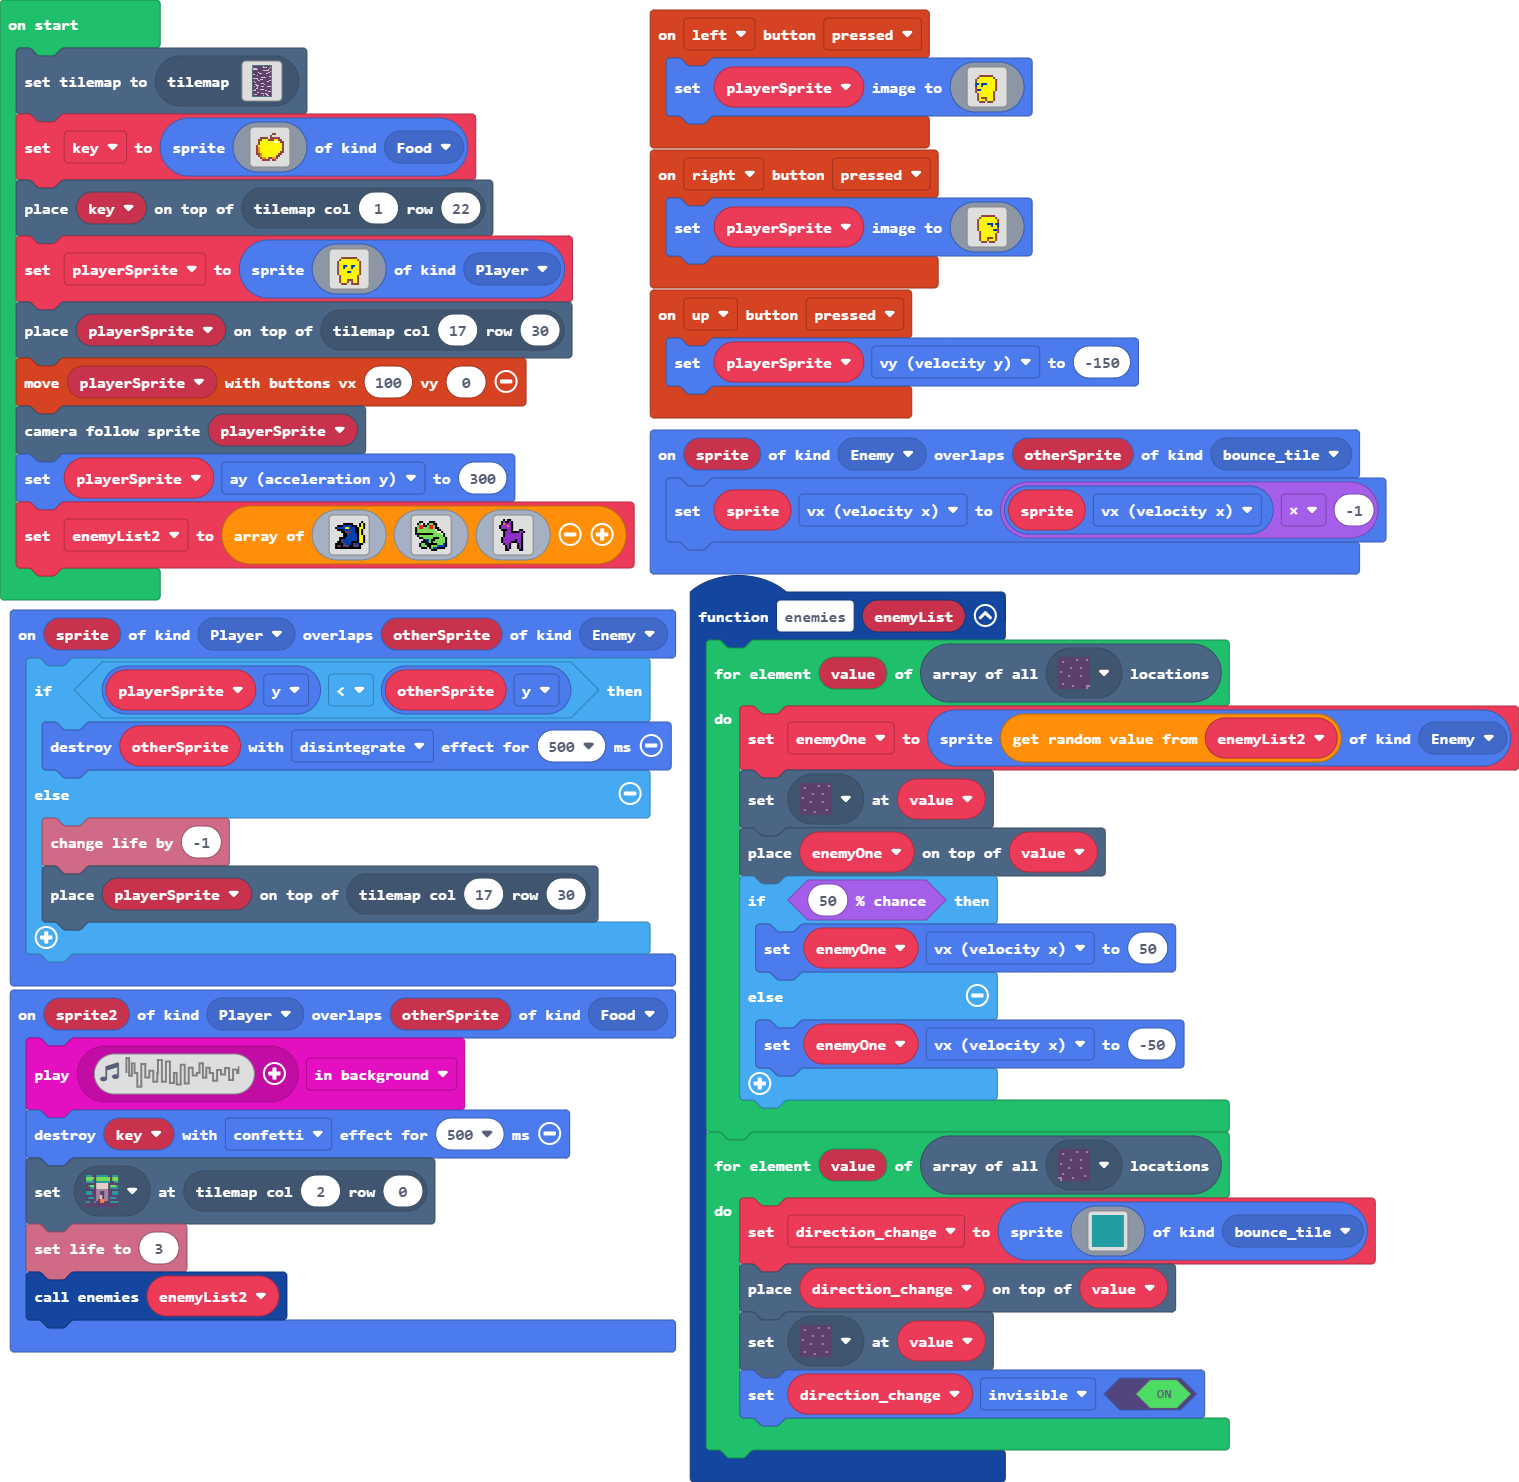
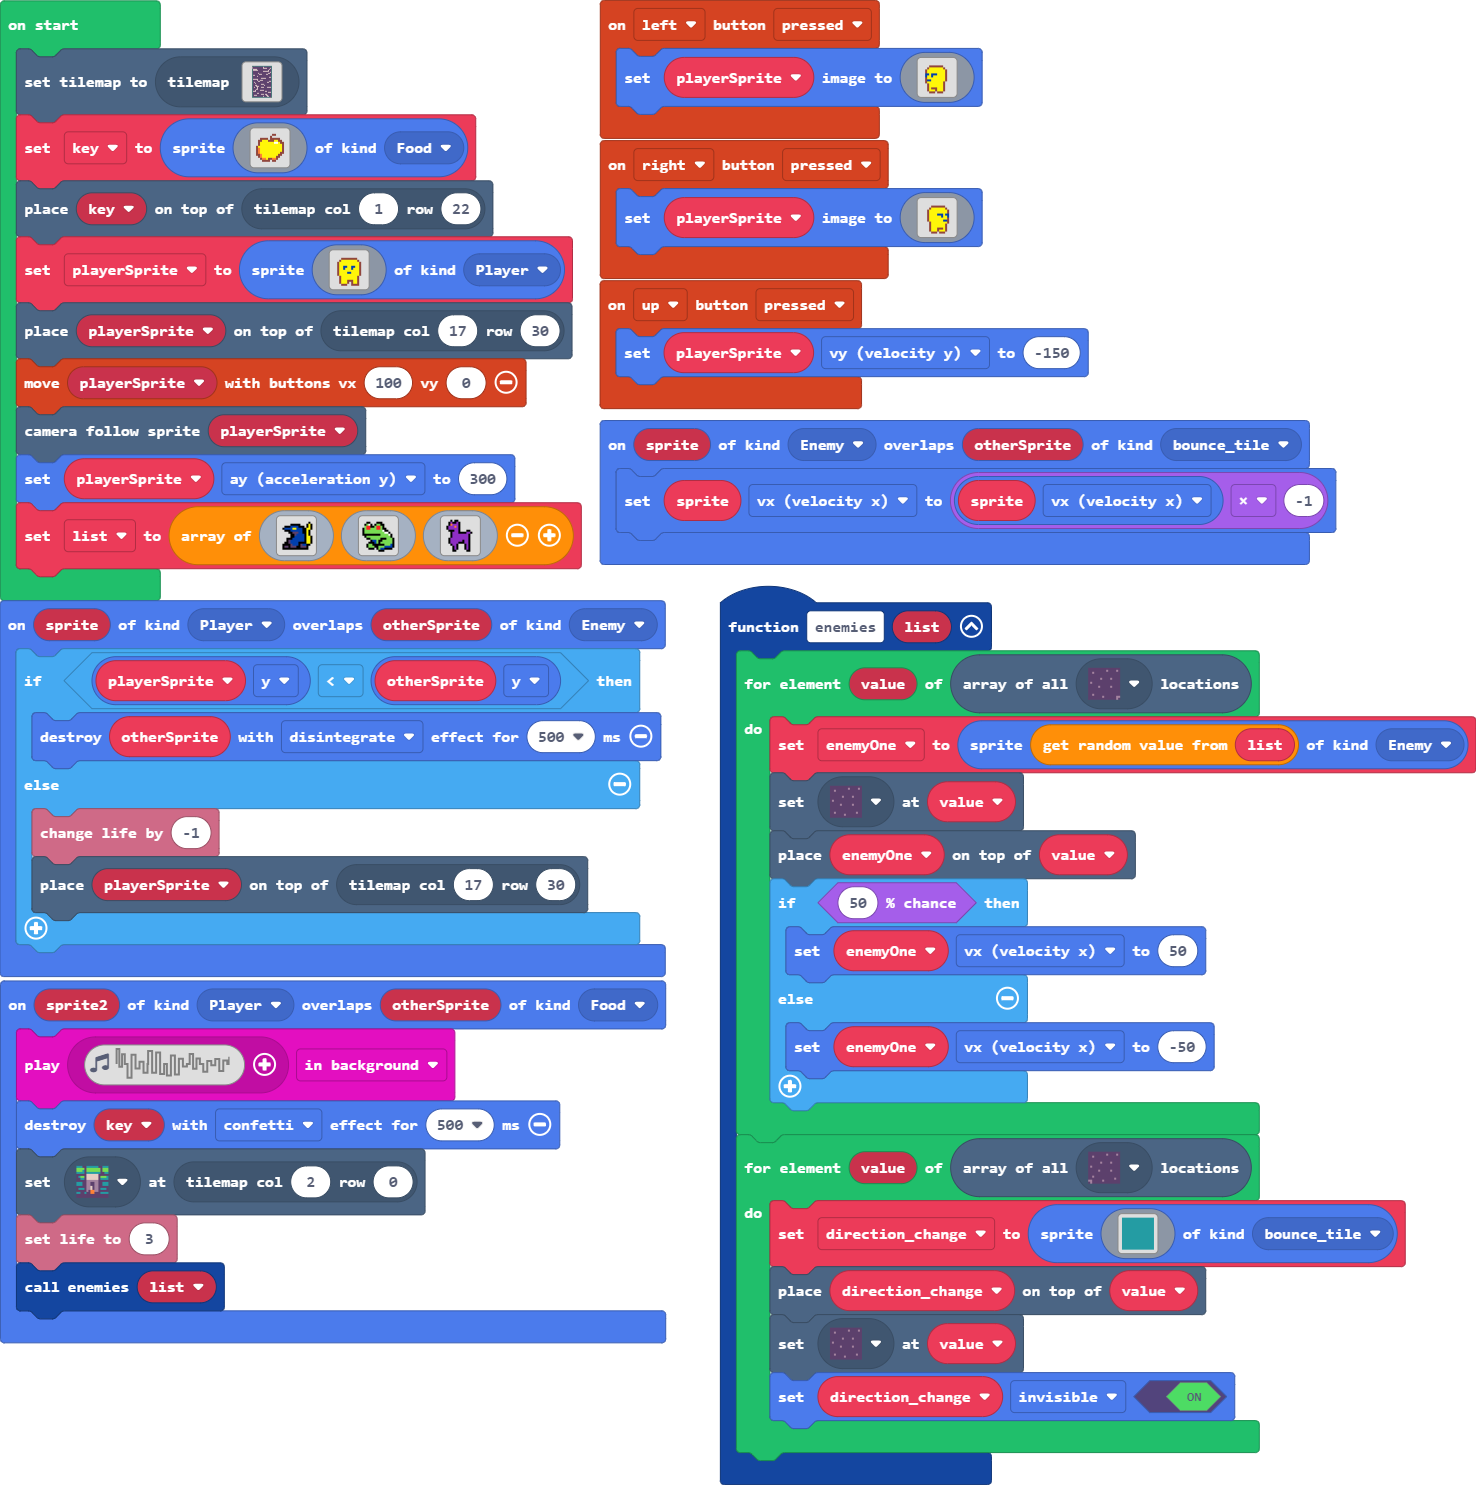
Update pxt.json, main.blocks, main.ts, tilemap.g.jres, tilemap.g.ts

diff --git a/main.ts b/main.ts
@@ -27,9 +27,9 @@ controller.left.onEvent(ControllerButtonEvent.Pressed, function () {
         . . . . e e e . e e e . . . . . 
         `)
 })
-function enemies (enemyList: any[]) {
+function enemies (list: Image[]) {
     for (let value of tiles.getTilesByType(sprites.dungeon.darkGroundNorthWest1)) {
-        enemyOne = sprites.create(enemyList2._pickRandom(), SpriteKind.Enemy)
+        enemyOne = sprites.create(list._pickRandom(), SpriteKind.Enemy)
         tiles.setTileAt(value, sprites.dungeon.darkGroundCenter)
         tiles.placeOnTile(enemyOne, value)
         if (Math.percentChance(50)) {
@@ -67,7 +67,7 @@ sprites.onOverlap(SpriteKind.Player, SpriteKind.Food, function (sprite2, otherSp
     sprites.destroy(key, effects.confetti, 500)
     tiles.setTileAt(tiles.getTileLocation(2, 0), assets.tile`myTile1`)
     info.setLife(3)
-    enemies(enemyList2)
+    enemies(list)
 })
 controller.right.onEvent(ControllerButtonEvent.Pressed, function () {
     playerSprite.setImage(img`
@@ -99,7 +99,7 @@ sprites.onOverlap(SpriteKind.Player, SpriteKind.Enemy, function (sprite, otherSp
 })
 let direction_change: Sprite = null
 let enemyOne: Sprite = null
-let enemyList2: Image[] = []
+let list: Image[] = []
 let playerSprite: Sprite = null
 let key: Sprite = null
 tiles.setCurrentTilemap(tilemap`level1`)
@@ -144,7 +144,7 @@ tiles.placeOnTile(playerSprite, tiles.getTileLocation(17, 30))
 controller.moveSprite(playerSprite, 100, 0)
 scene.cameraFollowSprite(playerSprite)
 playerSprite.ay = 300
-enemyList2 = [img`
+list = [img`
     . . . . . . . . . . . . . . . . 
     . . . . . . . . . . . . . . f . 
     . . . . . f f f f f . . . f 5 f 

diff --git a/tilemap.g.ts b/tilemap.g.ts
@@ -122,6 +122,25 @@ namespace myTiles {
 . . . . . . . . . . . . . . . . 
 . . . . . . . . . . . . . . . . 
 `, [myTiles.transparency16], TileScale.Sixteen);
+            case "level6":
+            case "level6":return tiles.createTilemap(hex`1000100000000000000000000000000000000000000000000000000000000000000000000000000000000000000000000000000000000000000000000000000000000000000000000000000000000000000000000000000000000000000000000000000000000000000000000000000000000000000000000000000000000000000000000000000000000000000000000000000000000000000000000000000000000000000000000000000000000000000000000000000000000000000000000000000000000000000000000000000000000000000000000000000000000000000000000000000000000000000000000000000000000000000000000000000000000000`, img`
+. . . . . . . . . . . . . . . . 
+. . . . . . . . . . . . . . . . 
+. . . . . . . . . . . . . . . . 
+. . . . . . . . . . . . . . . . 
+. . . . . . . . . . . . . . . . 
+. . . . . . . . . . . . . . . . 
+. . . . . . . . . . . . . . . . 
+. . . . . . . . . . . . . . . . 
+. . . . . . . . . . . . . . . . 
+. . . . . . . . . . . . . . . . 
+. . . . . . . . . . . . . . . . 
+. . . . . . . . . . . . . . . . 
+. . . . . . . . . . . . . . . . 
+. . . . . . . . . . . . . . . . 
+. . . . . . . . . . . . . . . . 
+. . . . . . . . . . . . . . . . 
+`, [myTiles.transparency16], TileScale.Sixteen);
         }
         return null;
     })
